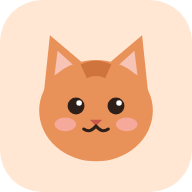
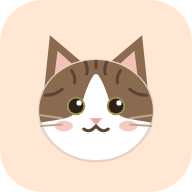
Ginger läuft, hüpft, jagt oder putzt sich beim Warten
Solange die App auf Produktdaten oder den Scanner wartet, zeigt sie Ginger
in einer von fünf zufälligen Animationen. App-Icon zeigt die neue Ginger.

Claude-Session: https://claude.ai/code/session_01R4hNhV8hqEDduSQD7jP2Kz

Changed region(s): [[0.1875, 0.1875, 0.8125, 0.8438]]

diff --git a/app.js b/app.js
@@ -257,6 +257,54 @@ function gingerPeek(width) {
   </svg>`;
 }
 
+// Ganze Ginger von der Seite, für die Warte-Animation
+function gingerBody(mode) {
+  const id = `gb${++gingerId}`;
+  const paw = `<rect class="leg leg-b paw" x="78" y="60" width="9" height="24" rx="4.5" fill="${G.white}" stroke="${G.line}" stroke-width="1.2"/>`;
+  return `<svg viewBox="0 0 120 90" width="110" height="83" aria-hidden="true">
+    <defs><clipPath id="${id}"><ellipse cx="56" cy="55" rx="34" ry="18"/></clipPath></defs>
+    <g class="tail"><path d="M24 52 Q8 46 10 26 Q11 18 16 14" stroke="${G.fur}" stroke-width="7" fill="none" stroke-linecap="round"/>
+      <path d="M12 34 L19 35 M11 26 L18 28" stroke="${G.stripe}" stroke-width="2" stroke-linecap="round"/></g>
+    <rect class="leg leg-b" x="30" y="60" width="9" height="24" rx="4.5" fill="${G.white}" stroke="${G.line}" stroke-width="1.2"/>
+    <rect class="leg leg-a" x="40" y="60" width="9" height="24" rx="4.5" fill="${G.white}" stroke="${G.line}" stroke-width="1.2"/>
+    <rect class="leg leg-a" x="68" y="60" width="9" height="24" rx="4.5" fill="${G.white}" stroke="${G.line}" stroke-width="1.2"/>
+    ${mode === 'putzen' ? '' : paw}
+    <ellipse cx="56" cy="55" rx="34" ry="18" fill="${G.white}" stroke="${G.line}" stroke-width="1.2"/>
+    <g clip-path="url(#${id})">
+      <path d="M18 30 L96 30 L96 50 Q82 57 68 50 Q54 58 40 50 Q28 56 18 50 Z" fill="${G.fur}"/>
+      <path d="M38 40 Q40 45 38 49 M50 39 Q52 45 50 50 M62 40 Q64 45 62 49 M74 39 Q76 44 74 48" stroke="${G.stripe}" stroke-width="2" fill="none" stroke-linecap="round"/>
+    </g>
+    <g class="head"><g transform="translate(66 2) scale(0.52)">${gingerHead({ happy: mode === 'putzen' })}</g></g>
+    ${mode === 'putzen' ? paw : ''}
+  </svg>`;
+}
+
+const WAIT_MODES = ['laufen', 'huepfen', 'jagen', 'springen', 'putzen'];
+let waitCount = 0;
+
+// Zeigt Ginger, solange auf etwas gewartet wird. Liegt außerhalb von #app, damit Neuzeichnen die Animation nicht unterbricht.
+function showWait(text) {
+  waitCount++;
+  let box = document.getElementById('wait');
+  if (!box) {
+    box = document.createElement('div');
+    box.id = 'wait';
+    box.setAttribute('role', 'status');
+    document.body.appendChild(box);
+  }
+  const mode = WAIT_MODES[Math.floor(Math.random() * WAIT_MODES.length)];
+  box.className = `wait ${mode}`;
+  box.innerHTML = `<div class="wait-label">${esc(text)}</div>
+    ${mode === 'jagen' ? '<div class="ball"><svg viewBox="0 0 20 20" width="22" height="22" aria-hidden="true"><circle cx="10" cy="10" r="9" fill="#C2551F"/><path d="M3 7 Q10 11 17 6 M3 13 Q10 9 17 14 M8 2 Q12 10 9 18" stroke="#F3B48C" stroke-width="1.5" fill="none"/></svg></div>' : ''}
+    <div class="cat">${gingerBody(mode)}</div>`;
+}
+
+function hideWait() {
+  waitCount = Math.max(0, waitCount - 1);
+  if (waitCount) return;
+  document.getElementById('wait')?.remove();
+}
+
 const ICONS = {
   cart: '<svg viewBox="0 0 24 24" width="24" height="24" fill="none" stroke="currentColor" stroke-width="2" stroke-linecap="round" stroke-linejoin="round" aria-hidden="true"><path d="M4 6h2v12M9 6v12M12 6v12M15 6h1v12M19 6h1v12"/></svg>',
   heart: '<svg viewBox="0 0 24 24" width="20" height="20" fill="currentColor" aria-hidden="true"><path d="M12 20 C5 15 3 12 3 8.5 A4.5 4.5 0 0 1 12 6.5 A4.5 4.5 0 0 1 21 8.5 C21 12 19 15 12 20 Z"/></svg>',
@@ -917,9 +965,11 @@ async function handleCode(raw) {
     render();
     return;
   }
-  ui.scanMsg = 'Ich schaue nach, was das ist …';
+  ui.scanMsg = '';
   render();
+  showWait('Ginger schaut nach, was das ist …');
   const info = await lookupProduct(code);
+  hideWait();
   if (info) {
     addToPantry(code, info);
     ui.lastCode = code;
@@ -935,11 +985,12 @@ let scanner = null;
 
 function loadScannerLib() {
   if (window.__Html5QrcodeLibrary__) return Promise.resolve(window.__Html5QrcodeLibrary__);
+  showWait('Ginger holt die Kamera …');
   return new Promise((resolve, reject) => {
     const s = document.createElement('script');
     s.src = 'vendor/html5-qrcode.min.js';
-    s.onload = () => resolve(window.__Html5QrcodeLibrary__);
-    s.onerror = reject;
+    s.onload = () => { hideWait(); resolve(window.__Html5QrcodeLibrary__); };
+    s.onerror = (e) => { hideWait(); reject(e); };
     document.head.appendChild(s);
   });
 }

diff --git a/styles.css b/styles.css
@@ -289,3 +289,52 @@ textarea.input { resize: vertical; font: inherit; }
 .pantry-item .title { font-weight: 800; font-size: 16px; }
 .pantry-item .meta { font-size: 13px; font-weight: 700; color: var(--muted); }
 .warn-text { font-size: 13px; font-weight: 800; color: #9A3324; }
+
+/* Ginger beim Warten */
+.wait { position: fixed; left: 0; right: 0; bottom: calc(env(safe-area-inset-bottom) + 80px); height: 150px; pointer-events: none; overflow: hidden; z-index: 40; }
+.wait-label {
+  position: absolute; top: 4px; left: 50%; transform: translateX(-50%);
+  background: var(--dark); color: #FFF1E4; padding: 8px 14px; border-radius: 14px;
+  font-weight: 800; font-size: 14px; white-space: nowrap;
+}
+.wait .cat, .wait .ball { position: absolute; bottom: 4px; left: 0; }
+.wait .ball { bottom: 6px; }
+.wait .cat svg, .wait .ball svg { display: block; overflow: visible; }
+.wait .leg { transform-box: fill-box; transform-origin: 50% 10%; }
+.wait .tail { transform-box: fill-box; transform-origin: 100% 100%; animation: wag 0.8s ease-in-out infinite alternate; }
+
+.wait.laufen .cat, .wait.huepfen .cat { animation: across 4.5s linear infinite; }
+.wait.jagen .cat { animation: across 2.6s linear infinite; }
+.wait.jagen .ball { animation: across-ahead 2.6s linear infinite; }
+.wait.jagen .ball svg { animation: roll 0.5s linear infinite; }
+.wait.springen .cat { animation: pounce 3.6s ease-in-out infinite; }
+.wait.laufen .leg-a, .wait.jagen .leg-a, .wait.springen .leg-a { animation: step 0.45s ease-in-out infinite alternate; }
+.wait.laufen .leg-b, .wait.jagen .leg-b, .wait.springen .leg-b { animation: step 0.45s ease-in-out infinite alternate-reverse; }
+.wait.jagen .leg { animation-duration: 0.25s !important; }
+.wait.huepfen .cat svg { animation: hop 0.6s ease-in-out infinite; }
+.wait.putzen .cat { left: calc(50% - 55px); }
+.wait.putzen .paw { animation: lick 0.9s ease-in-out infinite; }
+.wait.putzen .head { transform-box: fill-box; transform-origin: 50% 90%; animation: bob 0.9s ease-in-out infinite; }
+
+@keyframes across { from { transform: translateX(-130px); } to { transform: translateX(100vw); } }
+@keyframes across-ahead { from { transform: translateX(-20px); } to { transform: translateX(calc(100vw + 110px)); } }
+@keyframes pounce {
+  0% { transform: translate(-130px, 0); }
+  38% { transform: translate(calc(50vw - 120px), 0); }
+  44% { transform: translate(calc(50vw - 100px), 6px) scaleY(0.9); }
+  55% { transform: translate(calc(50vw - 30px), -70px); }
+  66% { transform: translate(calc(50vw + 40px), 0); }
+  100% { transform: translate(100vw, 0); }
+}
+@keyframes step { from { transform: rotate(-22deg); } to { transform: rotate(22deg); } }
+@keyframes hop { 0%, 100% { transform: translateY(0); } 50% { transform: translateY(-30px); } }
+@keyframes wag { from { transform: rotate(-8deg); } to { transform: rotate(10deg); } }
+@keyframes roll { to { transform: rotate(360deg); } }
+@keyframes lick { 0%, 100% { transform: rotate(0); } 35%, 65% { transform: translate(6px, -30px) rotate(-130deg); } }
+@keyframes bob { 0%, 100% { transform: rotate(0); } 50% { transform: rotate(-8deg); } }
+
+@media (prefers-reduced-motion: reduce) {
+  .wait * { animation: none !important; }
+  .wait .cat { left: calc(50% - 55px); }
+  .wait .ball { display: none; }
+}
